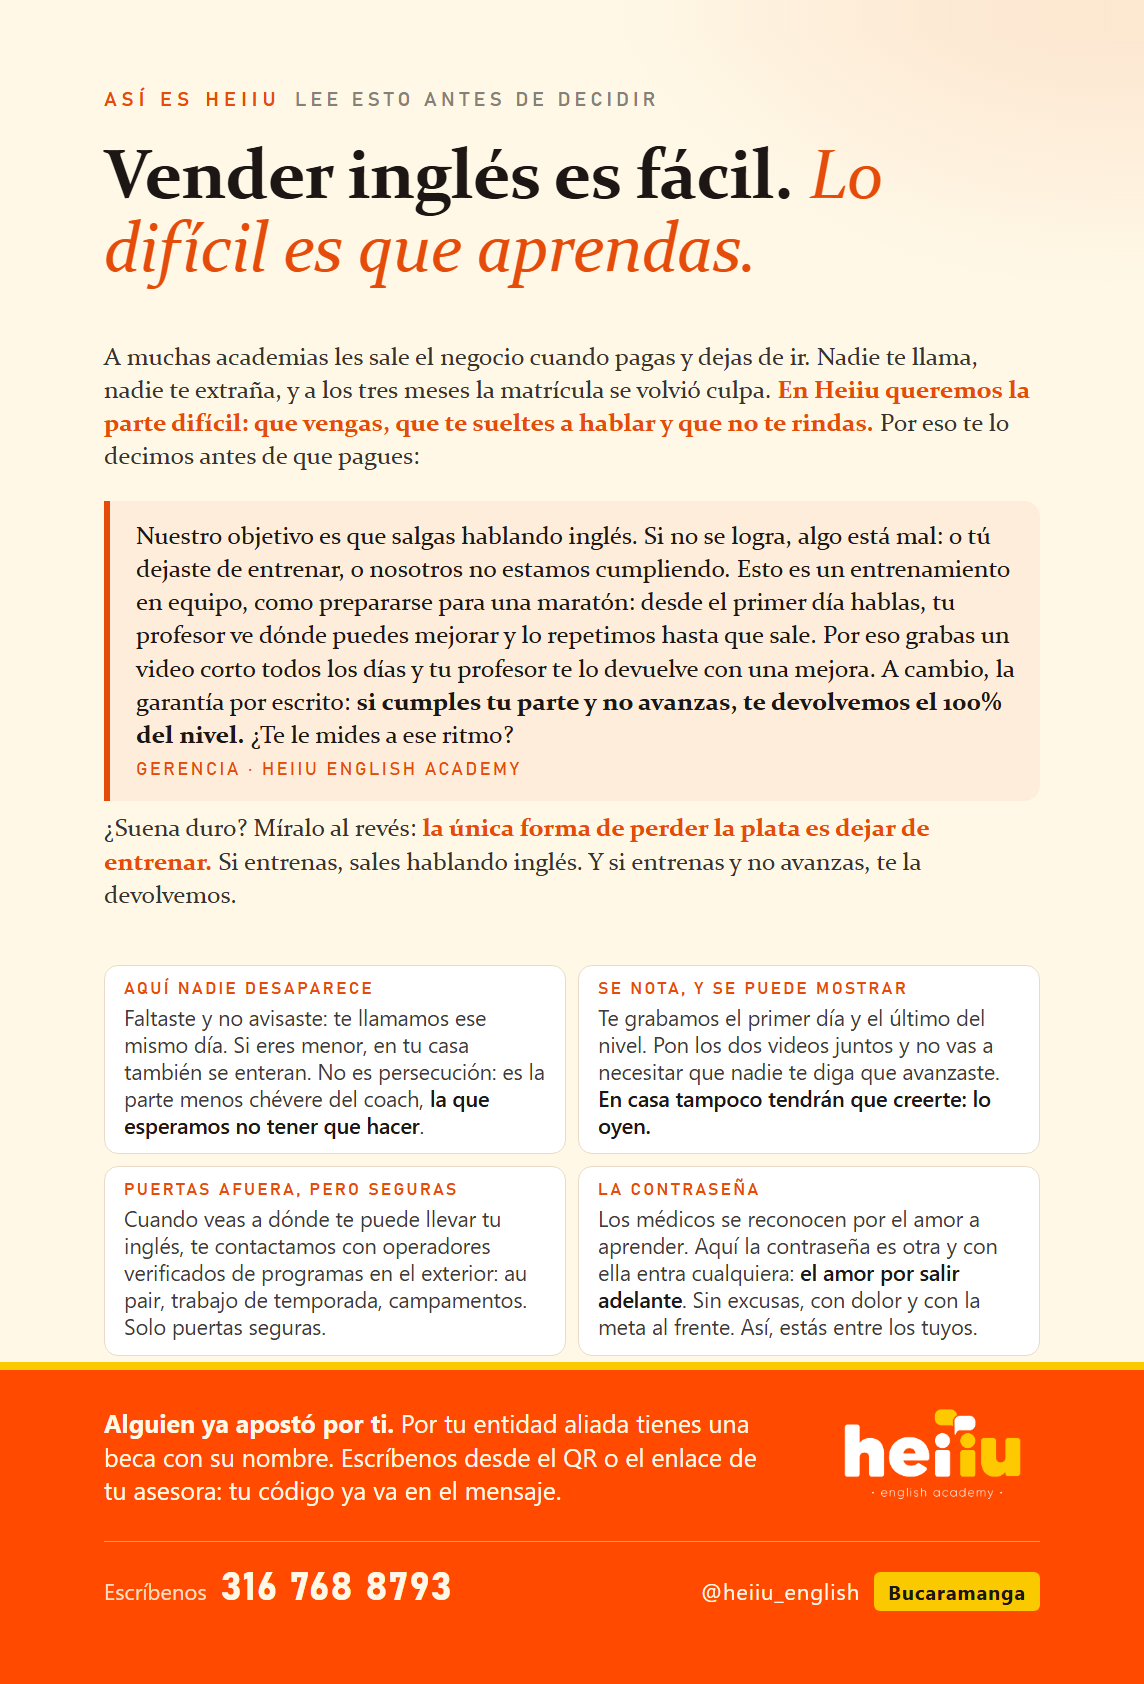
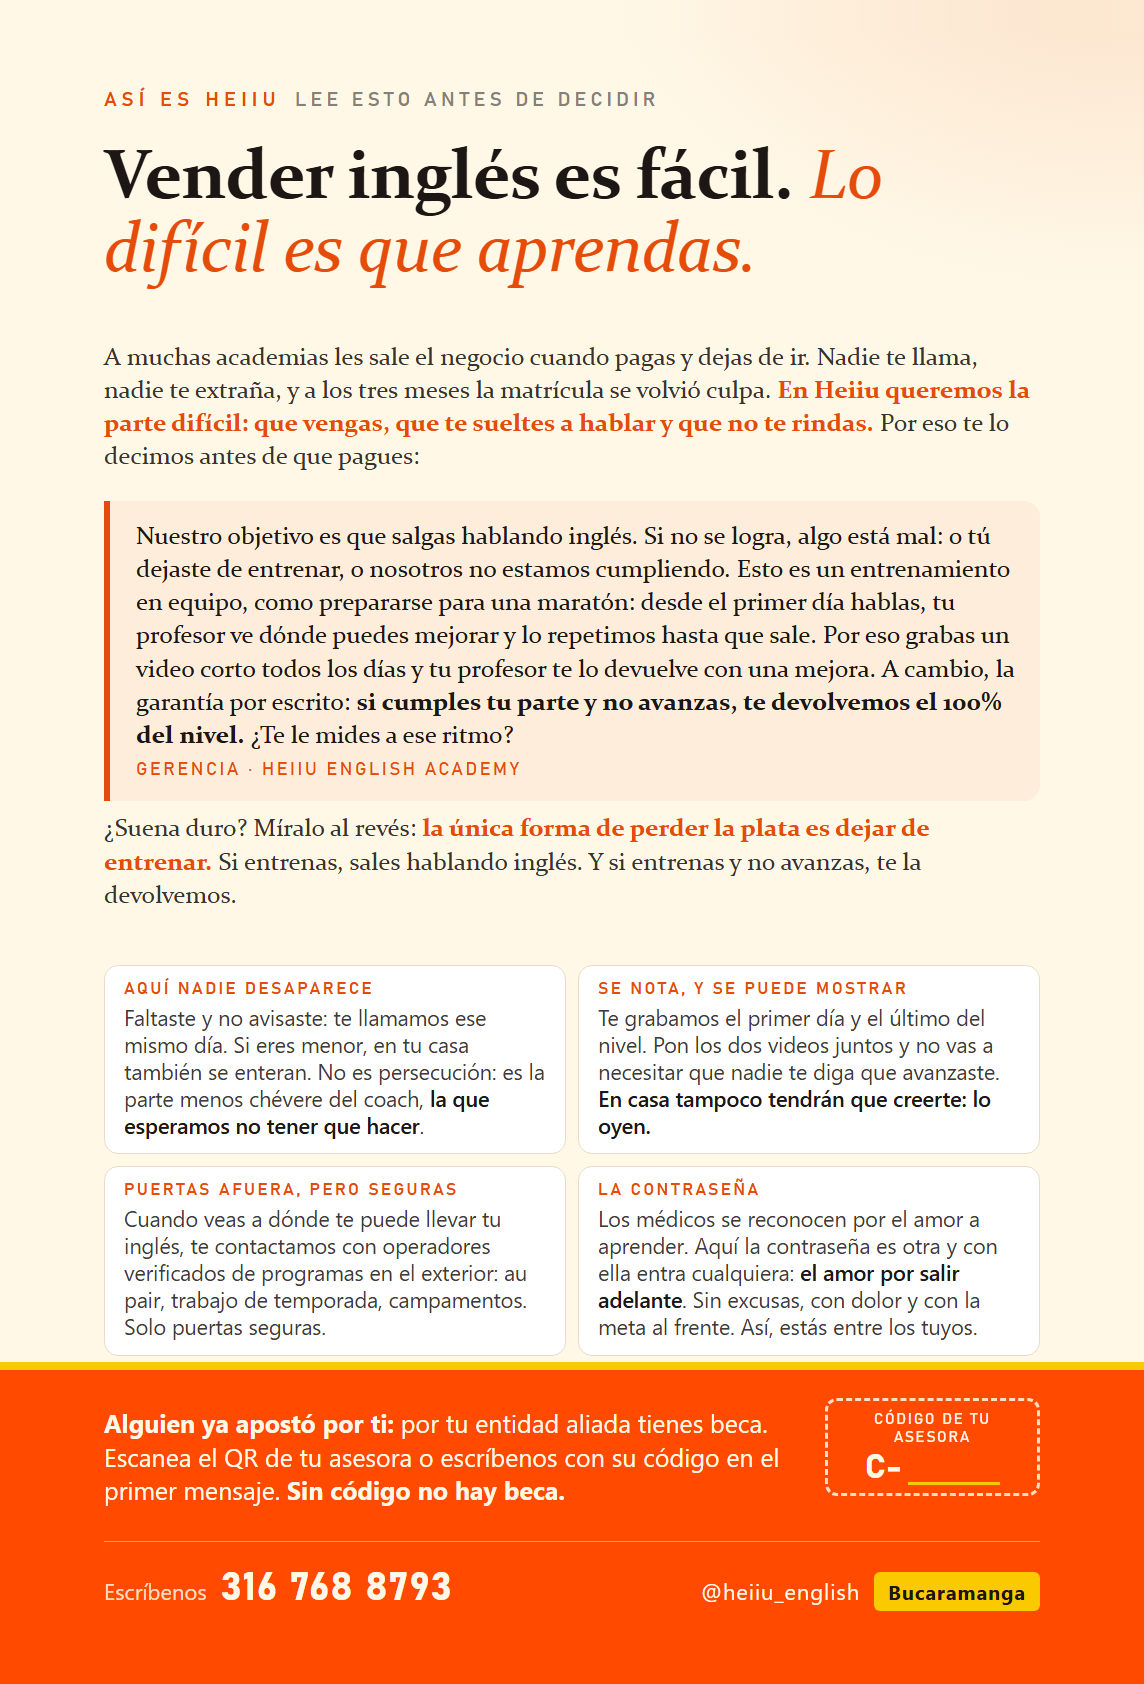
Pieza general respaldo: cuadro para el codigo de la asesora escrito a mano y 'sin codigo no hay beca' en la banda (cierra la fuga del numero impreso)

Changed region(s): [[0.0918, 0.8337, 0.6731, 0.8955], [0.7343, 0.8337, 0.9178, 0.8955]]

diff --git a/generadores/comercial/gen_piezas_conciencia.py b/generadores/comercial/gen_piezas_conciencia.py
@@ -82,6 +82,10 @@ blockquote b { font-weight: 700 } blockquote cite { display: block; font-style: 
 .band p { font-size: 25px; line-height: 1.34; color: #FFF8E7 }
 .band p b { font-weight: 700 }
 .band .logo { width: 215px; margin-top: -12px; justify-self: end }
+.band .codigo { justify-self: end; width: 215px; border: 3px dashed rgba(255,248,231,.85); border-radius: 12px; padding: 10px 12px 8px 12px; text-align: center; margin-top: -8px }
+.band .codigo .k { font-family: Bahnschrift, sans-serif; font-size: 15px; letter-spacing: .12em; color: #FFF8E7; display: block; margin-bottom: 4px }
+.band .codigo .v { font-family: Bahnschrift, sans-serif; font-size: 34px; font-weight: 700; color: #FFF8E7; display: block; line-height: 1 }
+.band .codigo .v span { display: inline-block; width: 92px; border-bottom: 3px solid #FBC900; height: 30px; vertical-align: bottom; margin-left: 6px }
 .cta { position: absolute; left: 72px; right: 72px; bottom: 40px; display: flex; justify-content: space-between; align-items: baseline;
        border-top: 1px solid rgba(255,248,231,.45); padding-top: 22px }
 .cta .tel { font-family: Bahnschrift, sans-serif; font-size: 40px; font-weight: 700; letter-spacing: .02em; color: #FFF8E7 }
@@ -131,8 +135,8 @@ PIEZAS = {
              ('SE NOTA, Y SE PUEDE MOSTRAR', 'Te grabamos el primer día y el último del nivel. Pon los dos videos juntos y no vas a necesitar que nadie te diga que avanzaste. <b>En casa tampoco tendrán que creerte: lo oyen.</b>', False),
              ('PUERTAS AFUERA, PERO SEGURAS', 'Cuando veas a dónde te puede llevar tu inglés, te contactamos con operadores verificados de programas en el exterior: au pair, trabajo de temporada, campamentos. Solo puertas seguras.', False),
              ('LA CONTRASEÑA', 'Los médicos se reconocen por el amor a aprender. Aquí la contraseña es otra y con ella entra cualquiera: <b>el amor por salir adelante</b>. Sin excusas, con dolor y con la meta al frente. Así, estás entre los tuyos.', False)],
-        band='<b>Alguien ya apostó por ti.</b> Por tu entidad aliada tienes una beca con su nombre. Escríbenos desde el QR o el enlace de tu asesora: tu código ya va en el mensaje.',
-        band_px=290),
+        band='<b>Alguien ya apostó por ti:</b> por tu entidad aliada tienes beca. Escanea el QR de tu asesora o escríbenos con su código en el primer mensaje. <b>Sin código no hay beca.</b>',
+        codigo=True, band_px=290),
     '1_PROFESIONALES': dict(
         label='PROGRAMA INDIVIDUAL', sub='MÉDICOS · PROFESIONALES · DIRECTIVOS',
         h1='Su inglés, <em>en su agenda.</em>',
@@ -220,10 +224,10 @@ def html(c):
     return ('<!doctype html><html><head><meta charset="utf-8"><style>%s%s%s</style></head><body><div class="page">'
             '<div class="top"><div class="label">%s<span>%s</span></div><h1>%s</h1><div class="rule"></div>%s'
             '%s<div class="pivot"><p class="lead">%s</p><p class="big">%s</p>%s</div>%s%s</div>'
-            '<div class="band"><p>%s</p><img class="logo" src="%s">'
+            '<div class="band"><p>%s</p>%s'
             '<div class="cta"><div class="tel"><small>Escríbenos</small>%s</div><div class="ig">%s<b>Bucaramanga</b></div></div></div>'
             '</div></body></html>') % (CSS % dict(W=W, H=c.get('H', H), BAND=c['band_px']), COMPACT if c.get('compact') else '', LIGHT if c.get('theme') == 'light' else '', c['label'], c['sub'], c['h1'], quote, st, c['lead'], c['big'], big2, why, fn,
-                                       c['band'], logo, LINEA, IG)
+                                       c['band'], ('<div class="codigo"><span class="k">CÓDIGO DE TU ASESORA</span><span class="v">C-<span></span></span></div>' if c.get('codigo') else '<img class="logo" src="%s">' % logo), LINEA, IG)
 
 
 def render(nombre, c):
